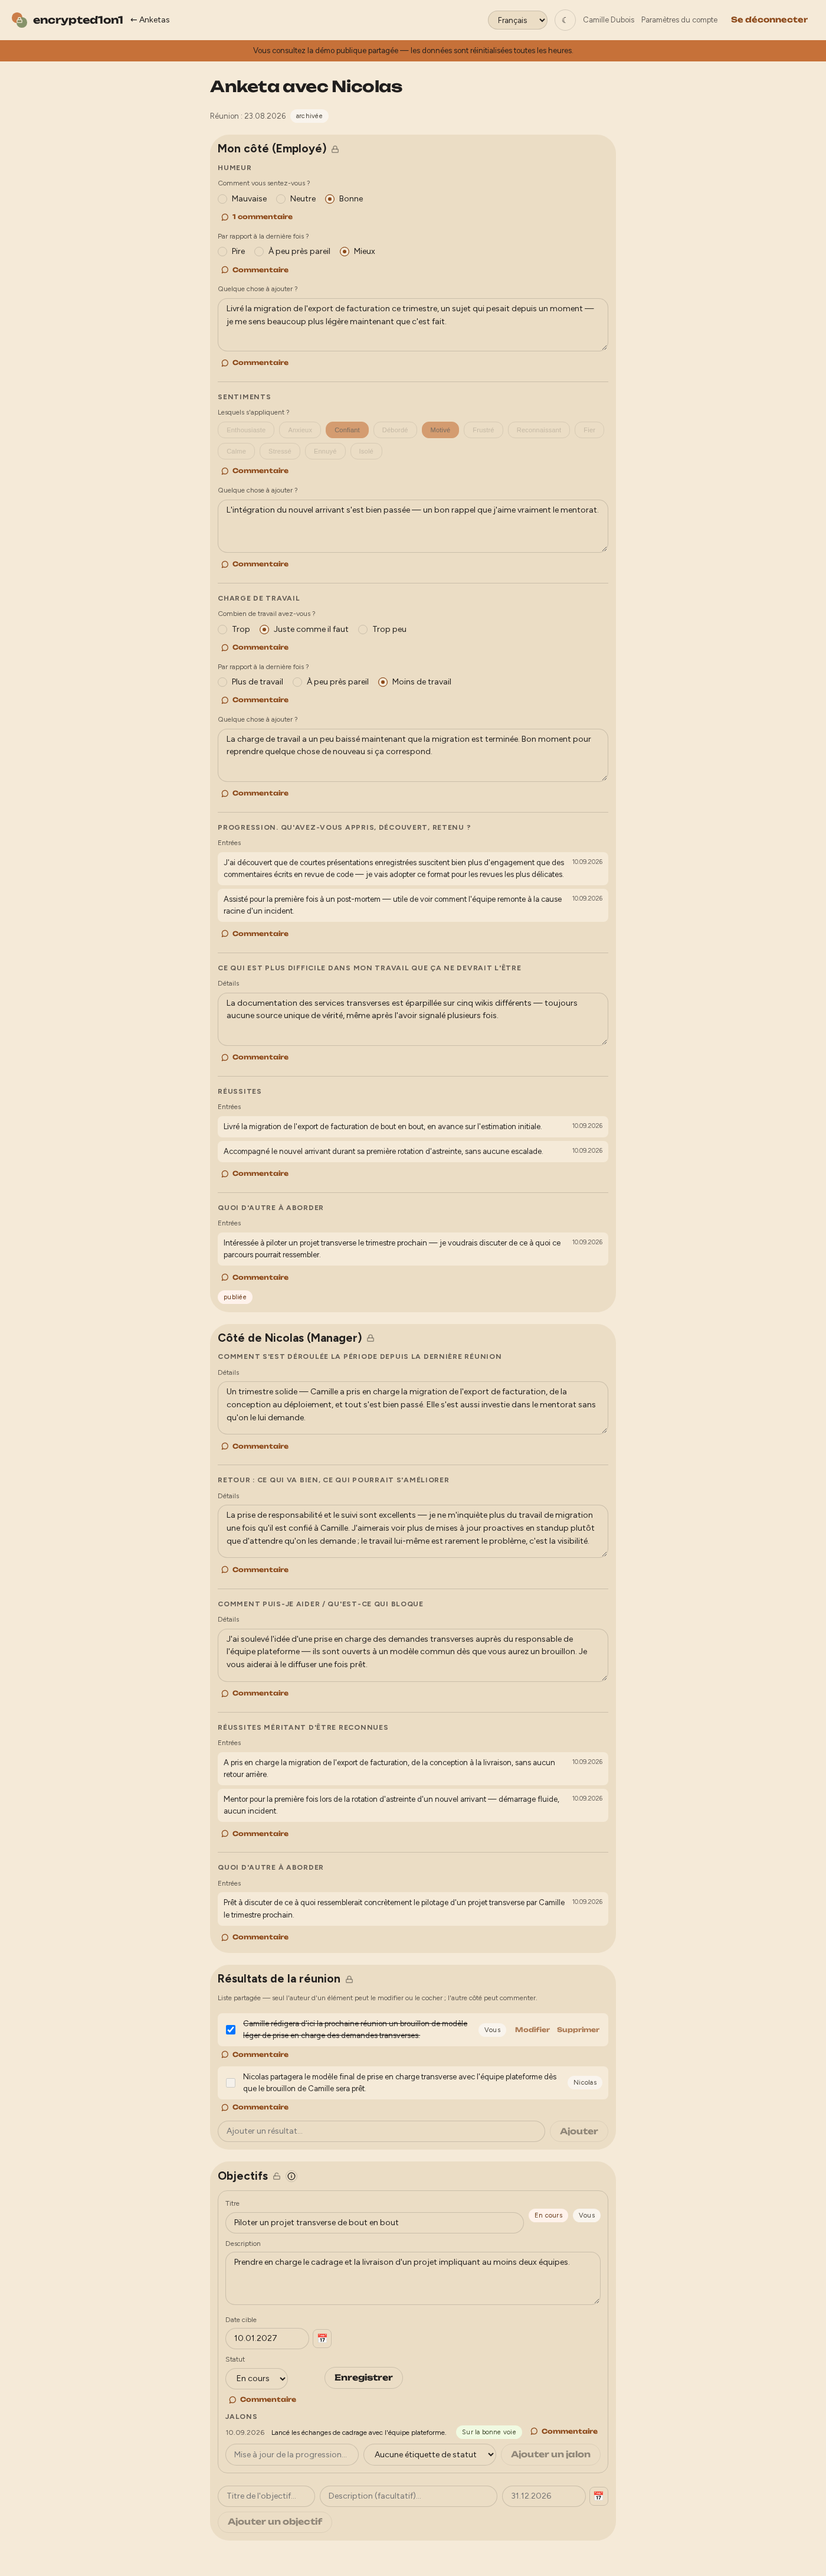
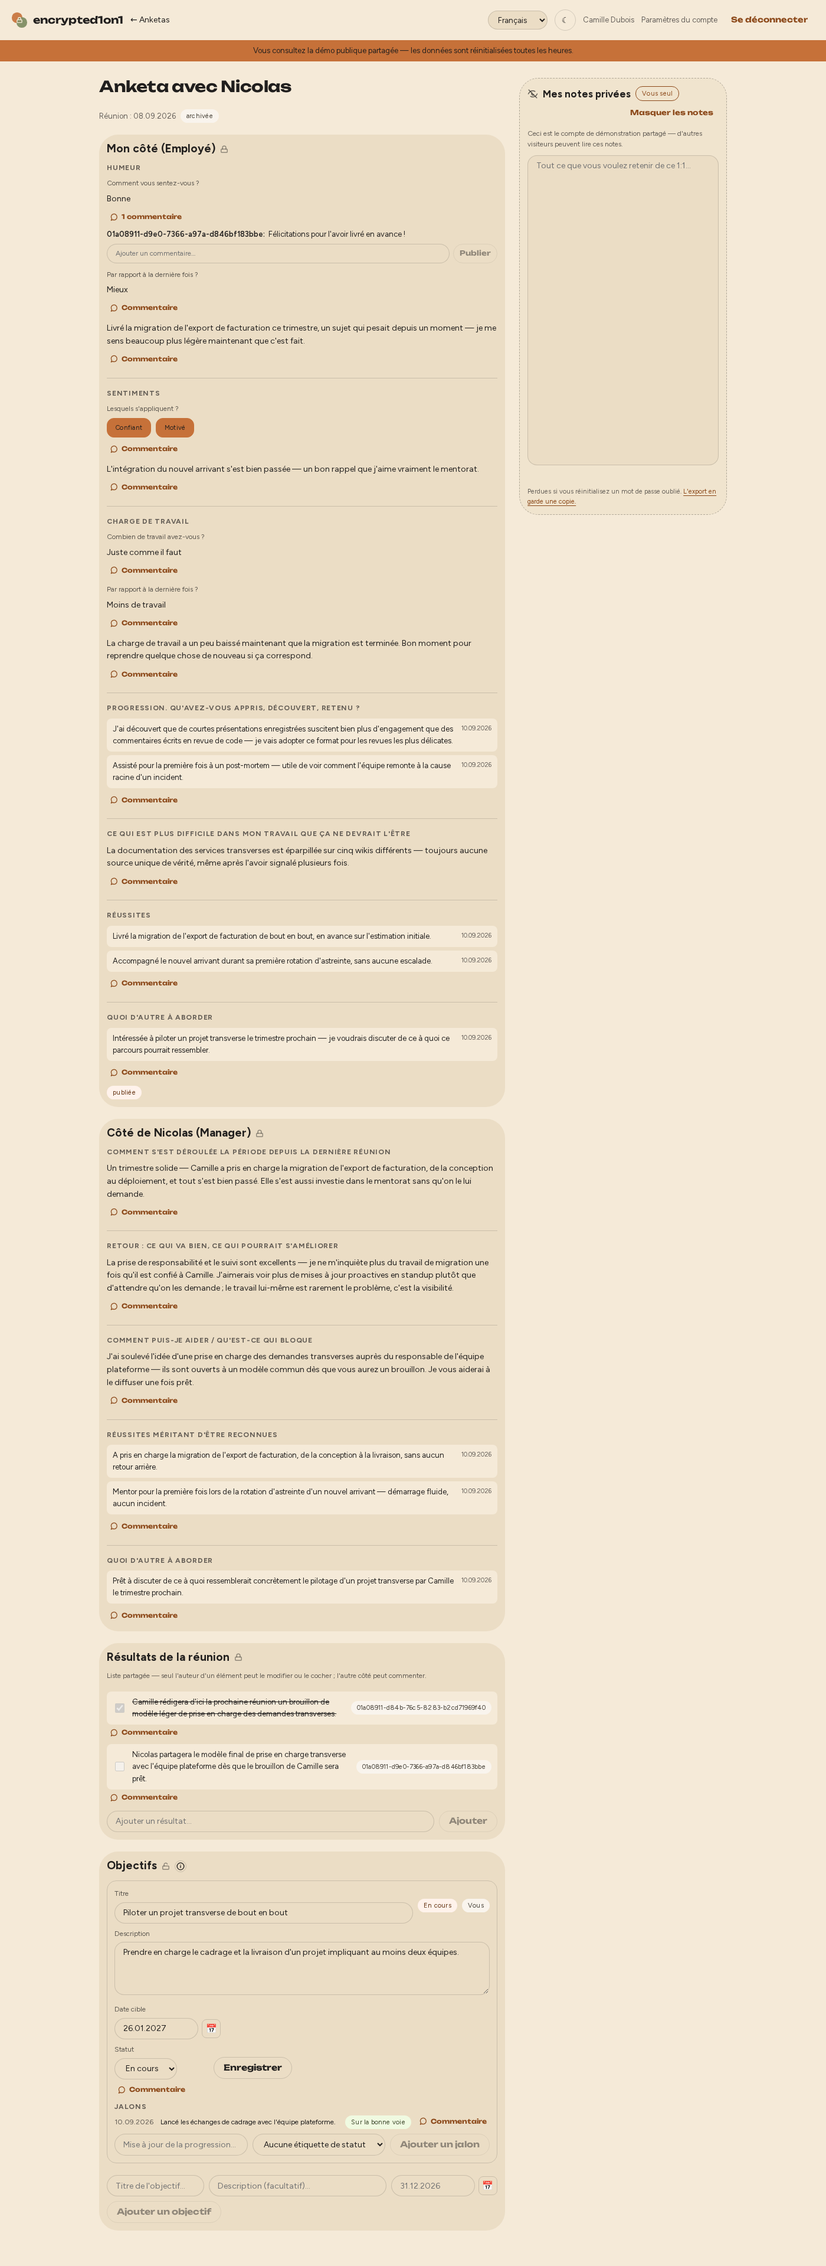
Update README and screenshots for v1.4.0
- Modernize README.md's Status section into a structured list covering
  all features accumulated through v1.4.0 (private meeting notes,
  meeting templates & one-offs, live in-meeting sync, Markdown answers,
  streamlined read-only view, sparkline charts, backend architecture
  decomposition, security & resilience, and operations).
- Regenerate all screenshots in docs/screenshots/ via
  frontend/scripts/generate-doc-screenshots.mjs to reflect the new
  2-column layout with the sticky private notes panel, clean Markdown
  answers, and collapsed read-only view.
- Update docs/screenshots/README.md captions to match the new visual
  artifacts (private notes, streamlined view, meeting countdown badges).

diff --git a/README.md b/README.md
@@ -4,13 +4,26 @@
 
 A self-hosted, end-to-end encrypted platform for running 1:1 meetings between managers and employees.
 
-<img src="docs/screenshots/anketa.png" alt="An anketa page, showing a manager's published side with feedback and achievements filled in" width="600">
+<img src="docs/screenshots/anketa.png" alt="An anketa page, showing a manager's published side with feedback and achievements alongside their encrypted private notes panel" width="700">
 
-More: [screenshots](docs/screenshots/) — login, the anketa list, a filled-in anketa, the report view, dark mode, several of the supported languages, and a look at what the server's own API response actually contains.
+More: [screenshots](docs/screenshots/) — login, the anketa list, an empty vs filled-in anketa with private notes, the report view, dark mode, 6 supported languages, and a look at what the server's own API response actually contains.
 
 ## Status
 
-Feature-complete and styled: authentication, invites and open self-registration (invite-only, admin-only, or double-opt-in self-registration restricted to an email domain — configurable), password reset and account settings (in-app password change, notification preferences, data export, account deletion), end-to-end encrypted 1:1 cycles (questions, comments, shared outcomes, goals with progress checkpoints), a grouped anketa-list view with per-counterpart mood/workload trend charts, reminder emails, an admin panel, a cross-period report view, 6-language i18n, dark mode, installable as a home-screen app (Web App Manifest), a CSP+Subresource-Integrity-hardened build with explicit HSTS, and a full production deployment path (including running behind an existing reverse proxy). See `CLAUDE.md`'s "Current stage" section for the exact up-to-date state of ongoing work — kept there, not duplicated here, so this file doesn't go stale the same way again.
+Production-ready and feature-complete (v1.4.0):
+- **End-to-end encrypted 1:1 cycles:** role-specific questions for employees and managers, Markdown-formatted answers with strict sanitization, private drafts, silent in-place editing, threaded comments, shared checklist outcomes with author ownership, and goal tracking with encrypted progress checkpoints.
+- **Private meeting notes:** an author-scoped encrypted notepad on every anketa (sticky side-column on desktop, card on mobile) that neither counterparts, server operators, nor admins can read. Includes background autosave, multi-tab conflict resolution, "Hide notes" for screen-sharing privacy, and inclusion in user data exports.
+- **Meeting templates & one-offs:** 4 built-in templates (Regular check-in, First 1:1 / Onboarding, Career growth, Support & workload check-in) with distinct question sets; ad-hoc one-off meetings that don't fork recurring chains or duplicate carry-forward items; automatic safe recurrence fallback to regular check-ins.
+- **Live in-meeting collaboration:** real-time background sync during meetings so counterpart answer edits, new comments (with ARIA live announcements), outcomes, and checkpoints appear automatically without page reloads.
+- **Streamlined read-only view:** clean display for published and archived anketas showing only answered questions and selected choices rather than long lists of empty fields or disabled controls.
+- **Analytics & reports:** grouped anketa list by date or counterpart, mood/workload sparklines, upcoming meeting countdown badges, client-side cross-period growth reports, and company admin adoption reports.
+- **Security & resilience:** zero-knowledge ciphertext storage, drafts encrypted with keys derived from private keys (surviving password changes), forgotten-password recovery with keypair regeneration and counterpart re-sharing, atomic archiving (no duplicate successors), rate limiting, CSP+SRI hardening with explicit HSTS, and automated privacy test gates.
+- **Accounts & administration:** configurable registration (invite-only, admin-only, or email-domain self-registration), account settings (in-app password change, notification toggles, JSON data export, account deletion), admin user management and invite auditing, and automated reminder emails.
+- **Accessibility & internationalization:** full keyboard navigation with focus retention across actions, 6 UI languages (English, German, French, Spanish, Russian, Latvian) with matching localized emails, dark mode, and Web App Manifest (PWA).
+- **Architecture & backend:** hand-composed Symfony backend decomposed into dedicated repositories and domain lifecycle services, typed DTO request payloads with Symfony validation, Doctrine multi-tenant isolation filters, and JSON-standardized API error formatting.
+- **Deployment & operations:** single-container FrankenPHP stack serving the API and SPA, automated database migrations (SQLite or MySQL), automated backup/restore scripts, and options for standalone Let's Encrypt HTTPS or running behind an existing reverse proxy.
+
+See [`CLAUDE.md`](CLAUDE.md)'s "Current stage" section and [`docs/history.md`](docs/history.md) for the detailed development log and architectural decisions.
 
 ## Core idea
 

diff --git a/docs/screenshots/README.md b/docs/screenshots/README.md
@@ -12,17 +12,17 @@ Your key is derived from your password right here, client-side — the subtitle 
 
 ![Anketa list, grouped by date](anketa_list.png)
 
-The home screen: an invite form (shown here since this instance is in invite mode), a by-date/by-person toggle, and each anketa tagged with its status — archived, published by me, published by my counterpart.
+The home screen: a by-date/by-person toggle, upcoming meeting countdown badges ("In 7 days"), and each anketa tagged with its status — archived, published by me, published by my counterpart.
 
 ## Filling out an anketa
 
 ![An empty, unpublished anketa](anketa_employee_empty.png)
 
-A fresh anketa, employee side, nothing filled in yet — mood/workload as radio choices, feelings as toggle pills, the append-style entry lists for growth/achievements/discuss. The counterpart's side is still locked ("Not published yet"), and archiving isn't available until there's something to archive.
+A fresh anketa, employee side, nothing filled in yet — mood/workload as radio choices, feelings as toggle pills, the append-style entry lists for growth/achievements/discuss, and the private notes panel on the right. The counterpart's side is still locked ("Not published yet").
 
 ![A fully filled-in, published anketa](anketa_employee.png)
 
-The same anketa once both sides are published: real answers on both sides, meeting outcomes, and a goal with a progress checkpoint. The lock icons next to each heading are a direct, in-UI reminder of what's encrypted and what isn't (see [encryption.md](../encryption.md#the-one-deliberate-plaintext-exception) for the one exception, called out in the Goals section itself via its own "more info" toggle).
+The same anketa once both sides are published: real answers on both sides (in a streamlined read-only view displaying only chosen options and answered fields), meeting outcomes, and a goal with a progress checkpoint. To the right: the author's encrypted private notes panel, sticky and autosaved as you type. The lock icons next to each heading are a direct, in-UI reminder of what's encrypted and what isn't (see [encryption.md](../encryption.md#the-one-deliberate-plaintext-exception) for the one exception, called out in the Goals section itself via its own "more info" toggle).
 
 ## Report
 
